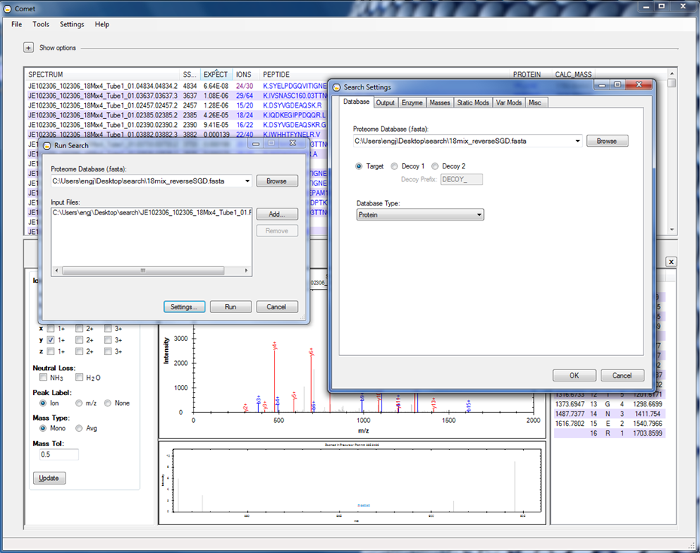
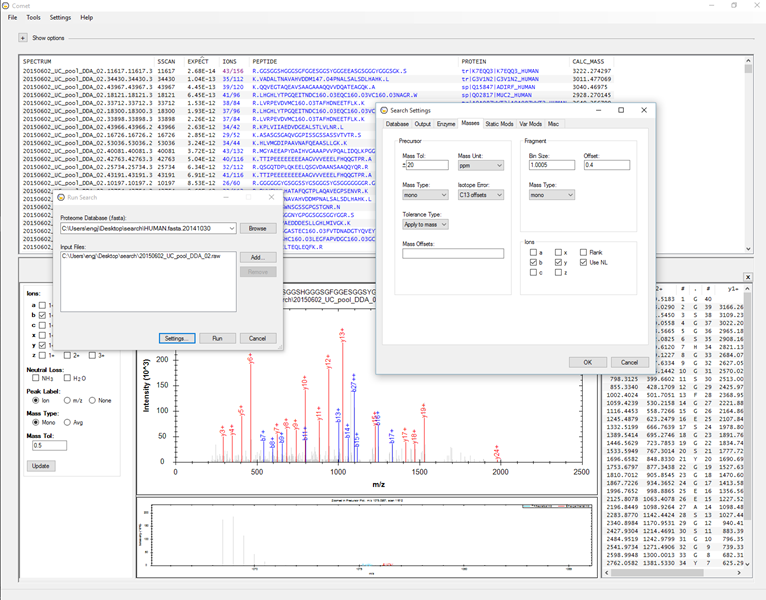
add high vs. low res search comparison to notes page
git-svn-id: https://svn.code.sf.net/p/comet-ms/code@929 299d2d02-8f3b-485e-a07e-71e8e5e16577

diff --git a/www/sidebar.php b/www/sidebar.php
@@ -2,9 +2,8 @@
       <div id="updates" class="orangebox">
          <h2><a href="/updates">Recent Updates</a></h2>
             <ul>
-               <li><b>2015/11/24</b>: <a href="/release/release_201502">Release 2015.02 rev. 3</a>
-               is available; this maintenance release fixes a number of minor
-               bugs.
+               <li><b>2016/01/22</b>: <a href="/release/release_201502">Release 2015.02 rev. 5</a>
+               is available; minor maintenance release.
                <li><b>2015/07/31</b>: <a href="/release/release_201502">Release 2015.02 rev. 0</a>
                is available; this is a full release.  The initial release of
                <a href="/CometUI">Comet UI</a> is also available.
@@ -21,7 +20,7 @@
       <div id="updates" class="orangebox">
          <h2>Links</h2>
             <ul>
-               <li><a target="new" href="http://pcarvalho.com/patternlab/">PatternLab</a> for proteomics</li>
+               <li><a target="new" href="http://www.patternlabforproteomics.org/">PatternLab</a> for proteomics</li>
                <li><a target="new" href="http://www.matrixscience.com/cgi/search_form.pl?FORMVER=2&SEARCH=MIS">Mascot</a> search engine</li>
                <li><a target="new" href="http://h.thegpm.org/tandem/thegpm_tandem.html">X!Tandem</a> search engine</li>
                <li><a target="new" href="http://www.maxquant.org">MaxQuant</a> software suite</li>
@@ -32,7 +31,6 @@
                <li><a target="new" href="http://cruxtoolkit.sourceforge.net/">Crux</a> project</li>
                <li><a target="new" href="http://www.labkey.org">LabKey</a> project</li>
                <li><a target="new" href="https://github.com/mhoopmann/mstoolkit">MSToolkit</a> data parsing library</li>
-               <li><a target="new" href="http://www.sharedproteomics.com/">SharedProteomics</a> forum/site</li>
                <li><a target="new" href="http://brucelab.gs.washington.edu/xlinkdb/">XLink-DB</a> cross link database</li>
                <li><a target="new" href="http://proteomicsresource.washington.edu/">UW Proteomics Resource</a></li>
                <li><a target="new" href="https://github.com/PedrioliLab/ReAdW">ReAdW</a> Thermo mzXML converter</li>

diff --git a/www/release/content.php b/www/release/content.php
@@ -3,7 +3,7 @@
       <div class="post hr">
          <h1>Comet releases</h1>
             <ul>
-               <li><a href="/release/release_201502/">Release 2015.02, 2015/07/31, last revised 2015/11/24</a></li>
+               <li><a href="/release/release_201502/">Release 2015.02, 2015/07/31, last revised 2016/01/22</a></li>
                <li><a href="/release/release_201501/">Release 2015.01, 2015/02/23, last revised 2015/04/28</a></li>
                <li><a href="/release/release_201402/">Release 2014.02, 2014/09/16, last revised 2014/09/25</a></li>
                <li><a href="/release/release_201401/">Release 2014.01, 2014/03/25, last revised 2014/06/03</a></li>
@@ -23,9 +23,9 @@
             <li><a target="new" href="https://registry.hub.docker.com/u/hexabio/comet/">Bio Docker</a>
             <li><a target="new" href="http://www.labkey.org">LabKey</a>
             <li><a target="new" href="http://www.bioprocess.org/massypup/">MASSyPup</a>
-            <li><a target="new" href="http://pcarvalho.com/patternlab/">PatternLab</a>
+            <li><a target="new" href="http://www.patternlabforproteomics.org/">PatternLab</a>
             <li><a target="new" href="http://prohitsms.com/">ProHits</a>
-            <li><a target="new" href="http://code.google.com/p/searchgui/">SearchGUI</a> and <a target="new" href="http://code.google.com/p/peptide-shaker/">PeptideShaker</a> 
+            <li><a target="new" href="http://compomics.github.io/projects/searchgui.html">SearchGUI</a> and <a target="new" href="http://compomics.github.io/projects/peptide-shaker.html">PeptideShaker</a> 
             <li><a target="new" href="http://tools.proteomecenter.org/wiki/index.php?title=Software:TPP">Trans-Proteomic Pipeline (TPP)</a>
          </ul>
 

diff --git a/www/release/release_201502/content.php b/www/release/release_201502/content.php
@@ -4,6 +4,21 @@
          <h1>Comet release 2015.02</h1>
                               
             <ul>
+               <b>release 2015.02 rev. 5 (2015.02.5), release date 2016/01/22</b>
+               <li>pepXML output: correctly report modified_peptide string; previously missing
+                   static modifications and at times terminal modifications.
+               <li>MGF file parsing: fix how fragment masses are adjusted when their fragment
+                   ion charge states are present.
+               <li>RAW file parsing: update MSToolkit to not report warning of unknown tokens
+                   't' and 'E'.
+            </ul>
+            <ul>
+               <b>release 2015.02 rev. 4 (2015.02.4), release date 2016/01/07</b>
+               <li>Additional parsing changes for better MGF support.
+               <li>pepXML output: correct "mod_cterm_mass" value and escape special characters
+                   in "spectrumNativeID" values.
+            </ul>
+            <ul>
                <b>release 2015.02 rev. 3 (2015.02.3), release date 2015/11/24</b>
                <li>Fix incorrect MGF parsing where blank lines in the MGF file would cause
                    an error.

diff --git a/www/notes/content.php b/www/notes/content.php
@@ -76,6 +76,15 @@
                </ul>
             </div>
 
+            <div class="post hr">
+               <p>Here's a Thermo Q Exactive datafile, human target + decoy database search (HeLa cells),
+                  searched with both the high-high and high-low parameter settings.  This plot
+                  compares the high res versus low res fragment ion settings above.  FDR/q-values
+                  are calculated based on Comet's E-value scores.  This plot demonstrates the
+                  advantages of high res search settings for high res MS/MS data.
+               <p><img src="params.png">
+
+            </div>
                   <!--
             <div class="post hr">
                <p>Here's an example of how Comet scales with increasing core count using an 16-core 

diff --git a/www/CometUI/content.php b/www/CometUI/content.php
@@ -26,6 +26,7 @@
 
          <p>A work-in-progress user guide can be found <a href="CometUI-User-Guide.pdf" onClick="_gaq.push(['_trackEvent', 'CometUI', 'Download', 'user guide]);" >here</a>.
 
+         <p>01/07/2016:  CometUI updated to support reading Tide pep.xml files.
          <p><img src="cometui.png">
       </div>
 
